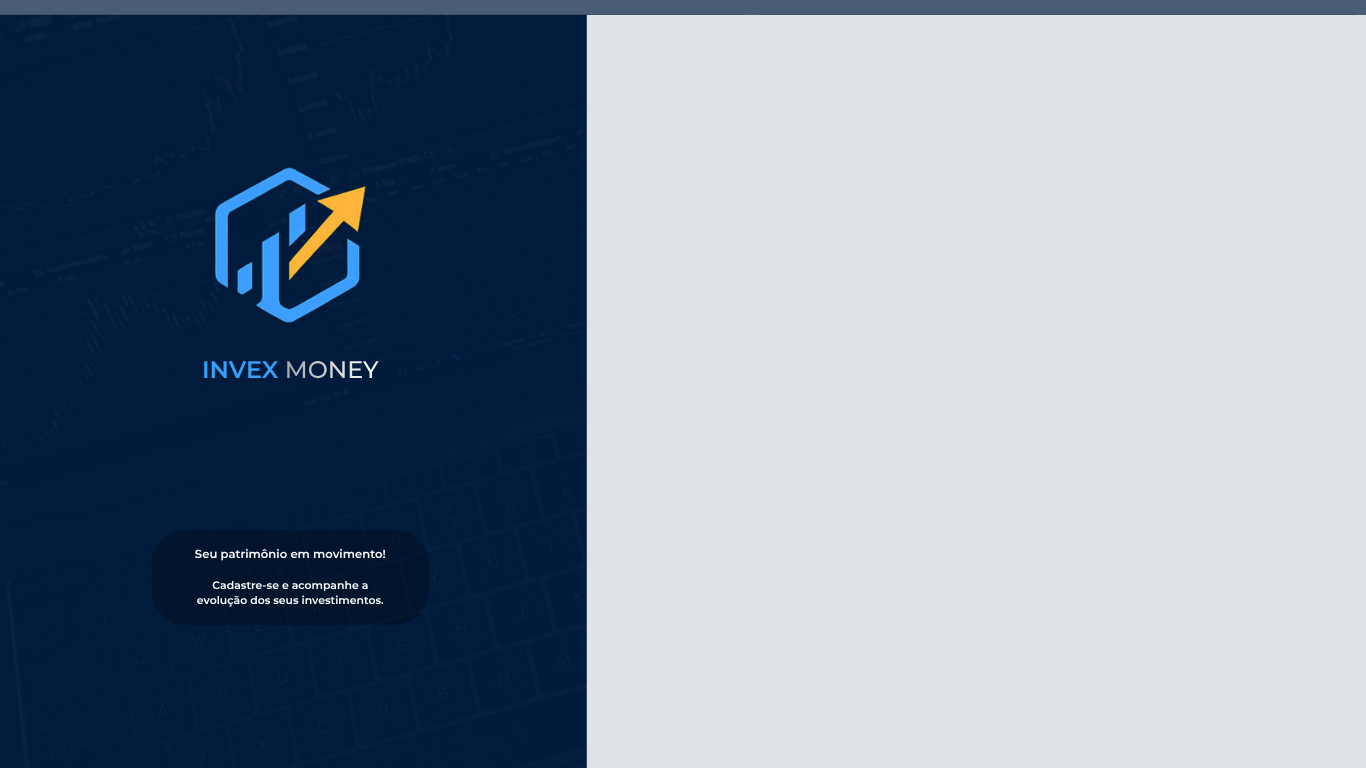
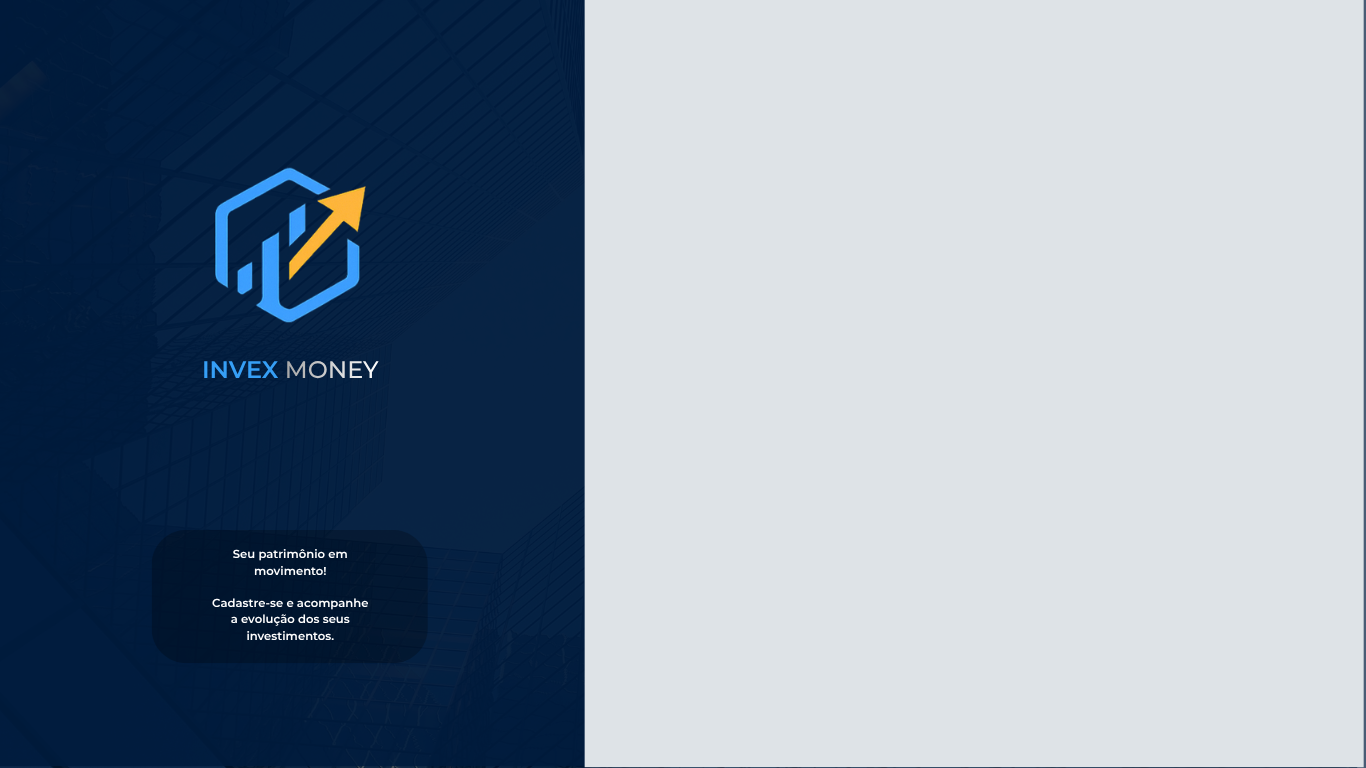
feat: ajustes tela de cadastro e login

Changed region(s): [[0.0, 0.0, 1.0, 1.0], [0.1537, 0.7188, 0.2767, 0.8438]]

diff --git a/InvexMoney-APP/src/paginas/Login/Login.module.css b/InvexMoney-APP/src/paginas/Login/Login.module.css
@@ -114,6 +114,8 @@
     text-decoration: underline;
 }
 
+
+/*  adaptar o layout da tela quando ela for aberta em dispositivos iguais ou menores que 768%  */
 @media (max-width: 768px) {
     .login_conteudo {
         background-image: none;          

diff --git a/InvexMoney-APP/src/paginas/Cadastro/Cadastro.module.css b/InvexMoney-APP/src/paginas/Cadastro/Cadastro.module.css
@@ -108,6 +108,8 @@
     text-decoration: underline;
 }
 
+
+/*  adaptar o layout da tela quando ela for aberta em dispositivos iguais ou menores que 768px  */
 @media (max-width: 768px) {
     .cadastro_conteudo {
         background-image: none;
